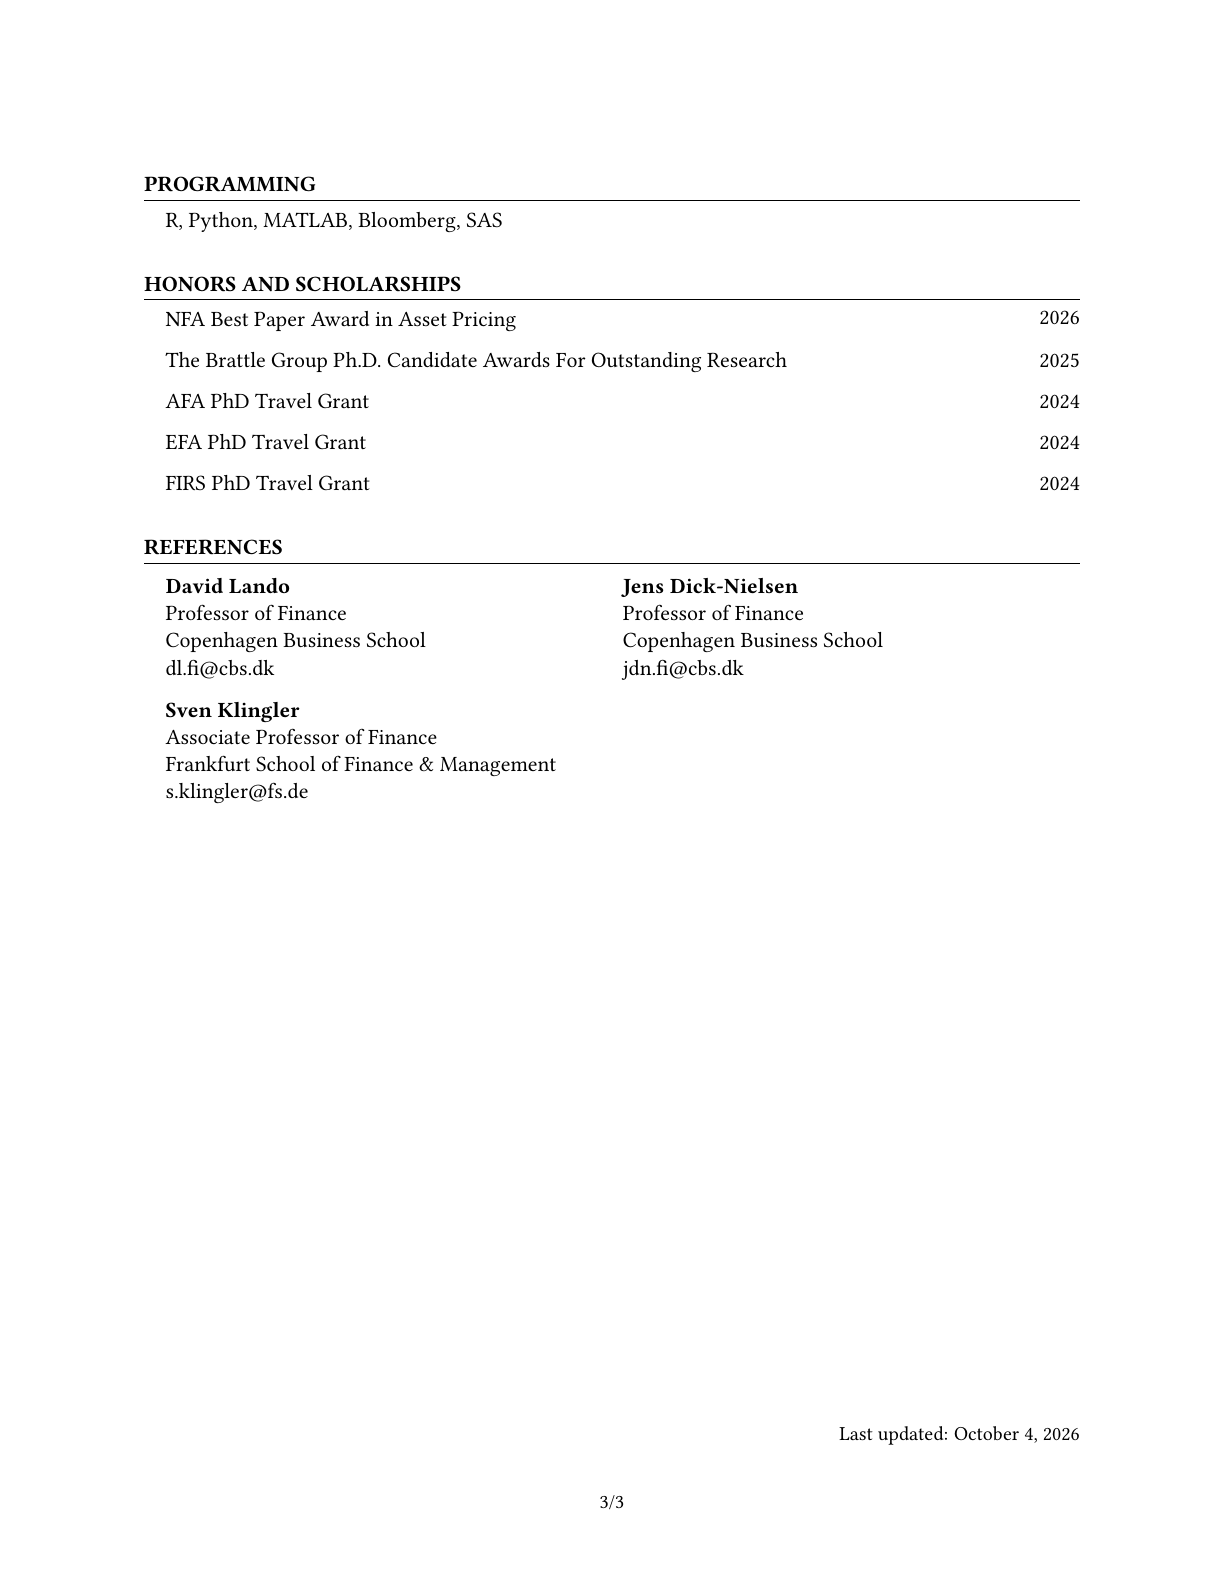
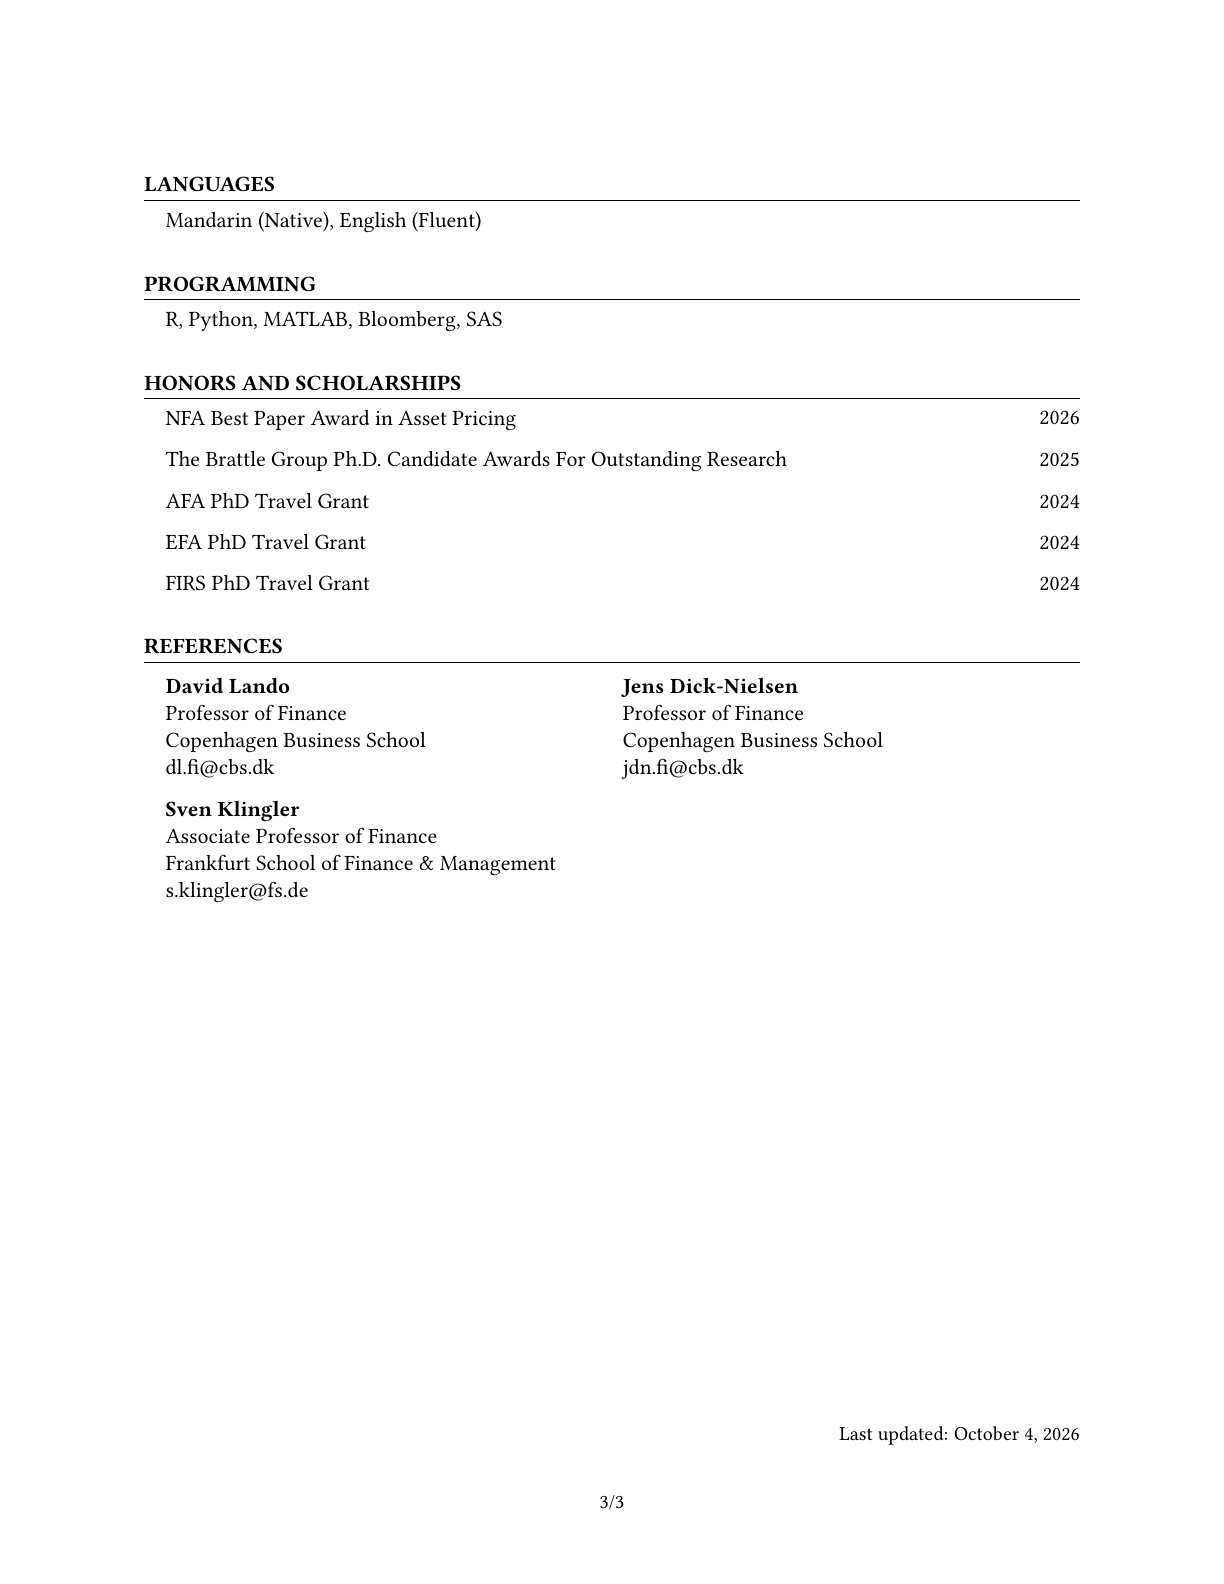
Shorten conference names

diff --git a/_pages/cv.md b/_pages/cv.md
@@ -9,11 +9,11 @@ redirect_from:
 
 {% include base_path %}
 
-You can see my CV [here](/files/CV_ZhuoluGao.pdf?v=20261004).
+You can see my CV [here](/files/CV_ZhuoluGao.pdf?v=20261004-2).
 
 <div class="cv-pages" aria-label="Curriculum Vitae">
-  <img class="cv-page" src="{{ site.baseurl }}/files/CV_ZhuoluGao-page-1.png?v=20261004" alt="Zhuolu Gao CV, page 1">
-  <img class="cv-page" src="{{ site.baseurl }}/files/CV_ZhuoluGao-page-2.png?v=20261004" alt="Zhuolu Gao CV, page 2" loading="lazy">
-  <img class="cv-page" src="{{ site.baseurl }}/files/CV_ZhuoluGao-page-3.png?v=20261004" alt="Zhuolu Gao CV, page 3" loading="lazy">
+  <img class="cv-page" src="{{ site.baseurl }}/files/CV_ZhuoluGao-page-1.png?v=20261004-2" alt="Zhuolu Gao CV, page 1">
+  <img class="cv-page" src="{{ site.baseurl }}/files/CV_ZhuoluGao-page-2.png?v=20261004-2" alt="Zhuolu Gao CV, page 2" loading="lazy">
+  <img class="cv-page" src="{{ site.baseurl }}/files/CV_ZhuoluGao-page-3.png?v=20261004-2" alt="Zhuolu Gao CV, page 3" loading="lazy">
 </div>
 

diff --git a/_includes/working_papers.md b/_includes/working_papers.md
@@ -19,7 +19,7 @@ Firms borrowing from both banks and the corporate bond market pay a substantial 
 
 #### **Award: The Brattle Group Ph.D. Candidate Awards For Outstanding Research**
 
-#### *Presentations at: AFA poster 2025, BIGFI Research Retreat, Erasmus School of Economics, FIRS PhD Session 2024, Fudan University, Nordic Finance Network PhD Workshop 2024, NFN Young Scholars Workshop, SFI PhD Workshop, Shanghai Advanced Institute of Finance, Tri-City Day-Ahead Workshop 2024, WFA 2025*
+#### *Presentations at: AFA poster 2025, BIGFI, Erasmus School of Economics, FIRS 2024, Fudan University, Nordic Finance Network PhD Workshop 2024, NFN Young Scholars Workshop, SFI PhD Workshop, Shanghai Advanced Institute of Finance, Tri-City Day-Ahead Workshop 2024, WFA 2025*
 
 #### *(Formerly titled: Disentangling the Loan Premium: The Value of Bank Lending)*
 

diff --git a/_pages/about.md b/_pages/about.md
@@ -11,7 +11,7 @@ I am a Postdoctoral Researcher in Finance at Frankfurt School of Finance & Manag
 
 Research interests: Empirical Asset Pricing, Financial Intermediation, Credit Risk.
 
-[Curriculum Vitae](/files/CV_ZhuoluGao.pdf?v=20261004)
+[Curriculum Vitae](/files/CV_ZhuoluGao.pdf?v=20261004-2)
 
 
 <br/>
